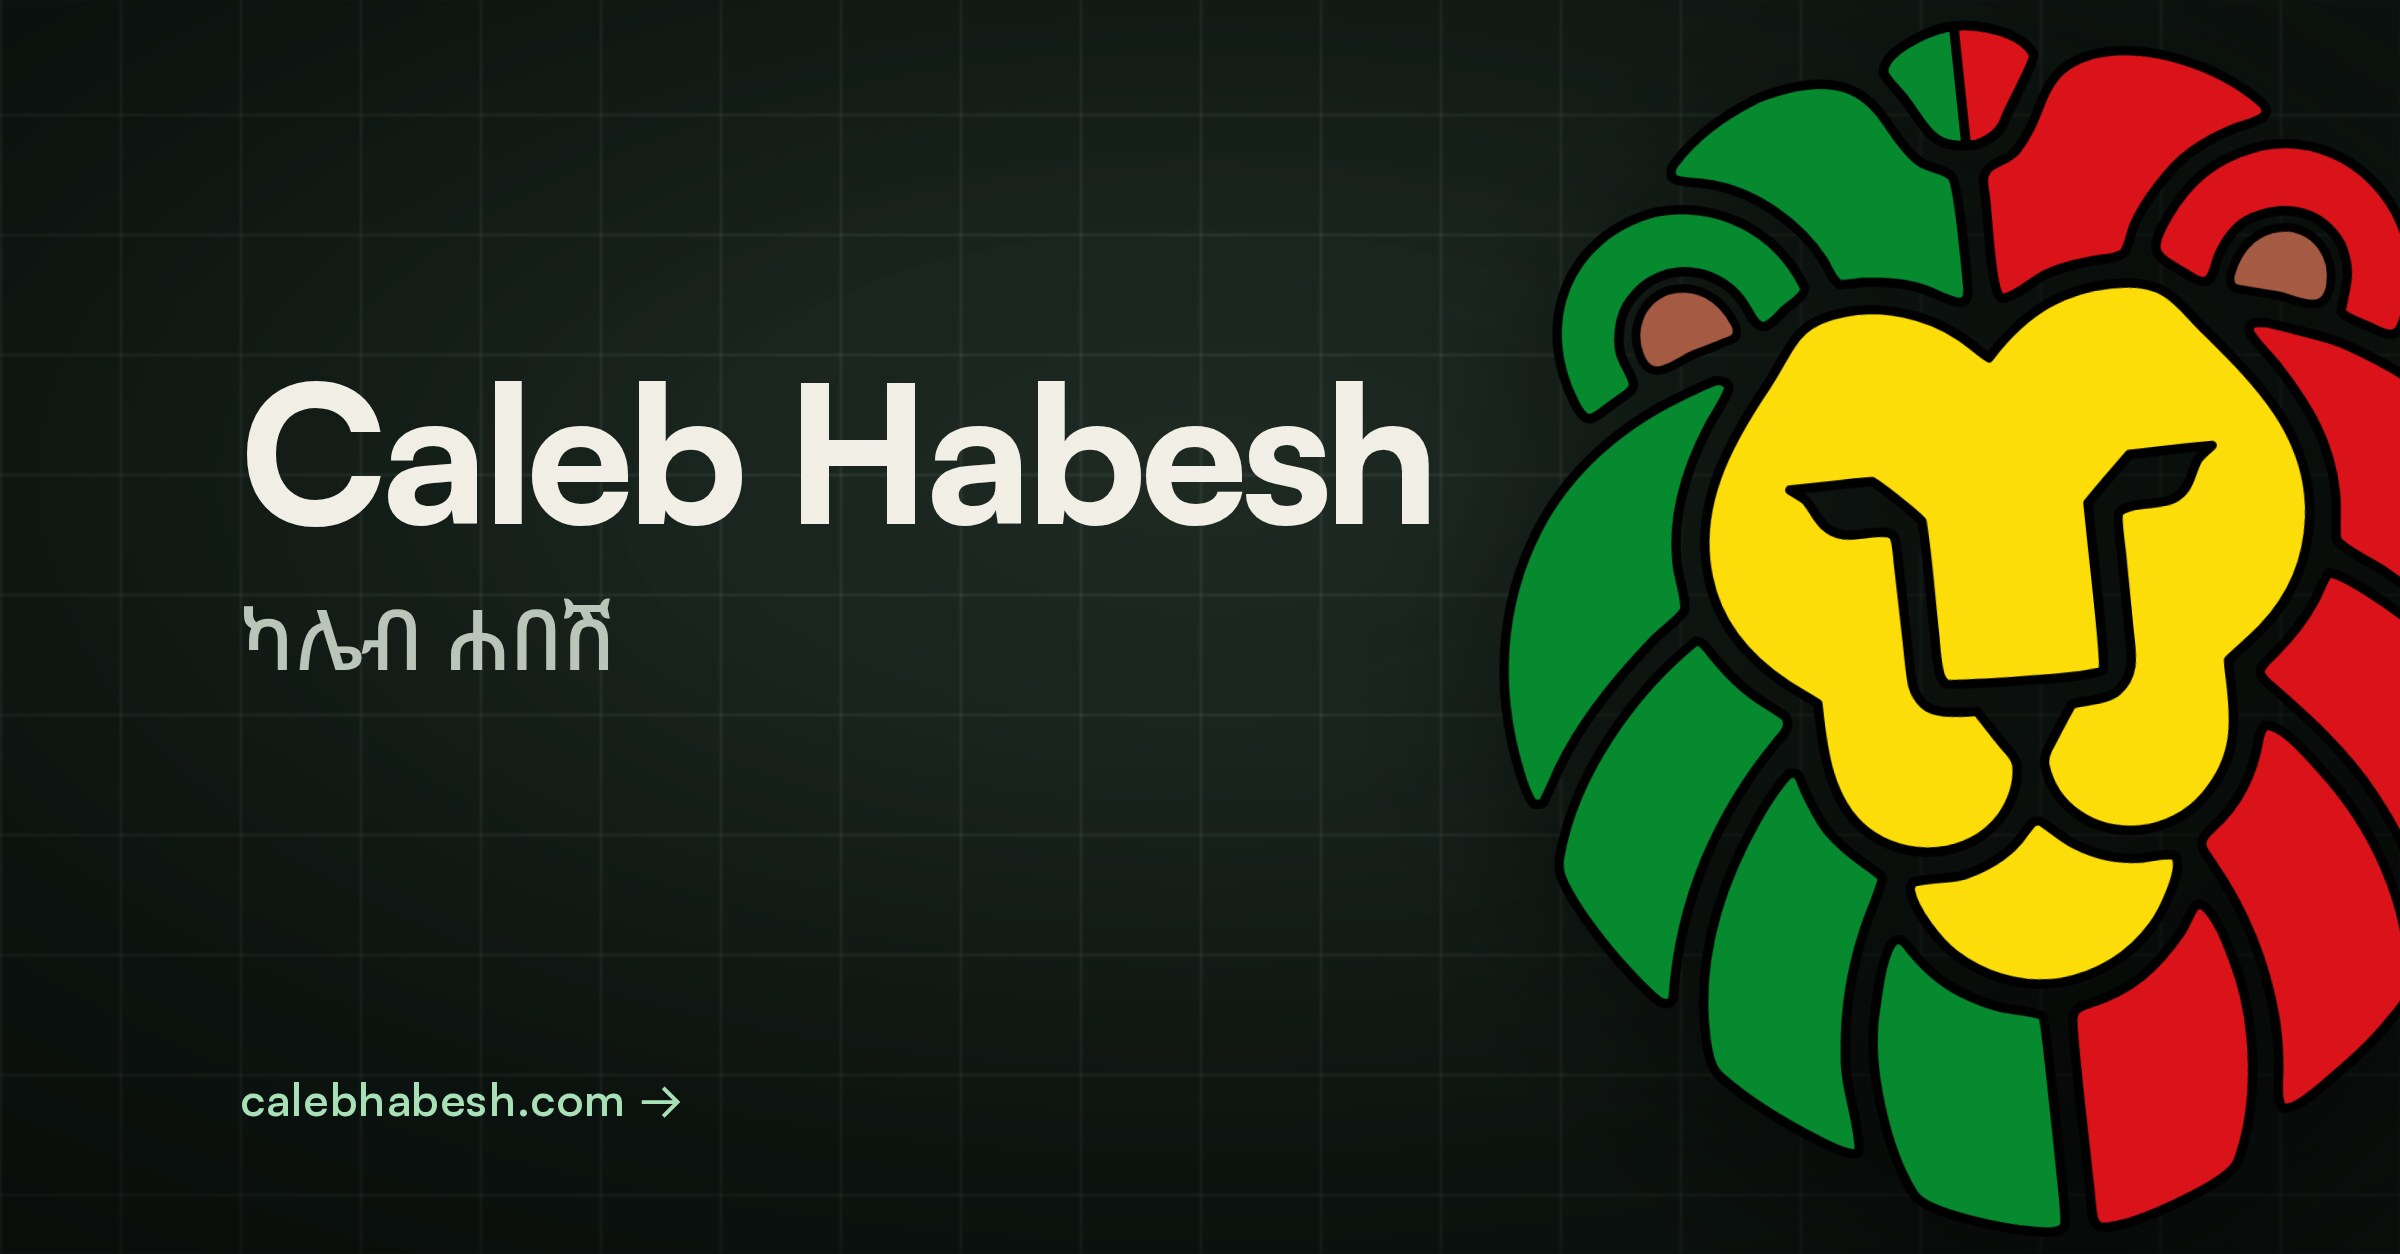
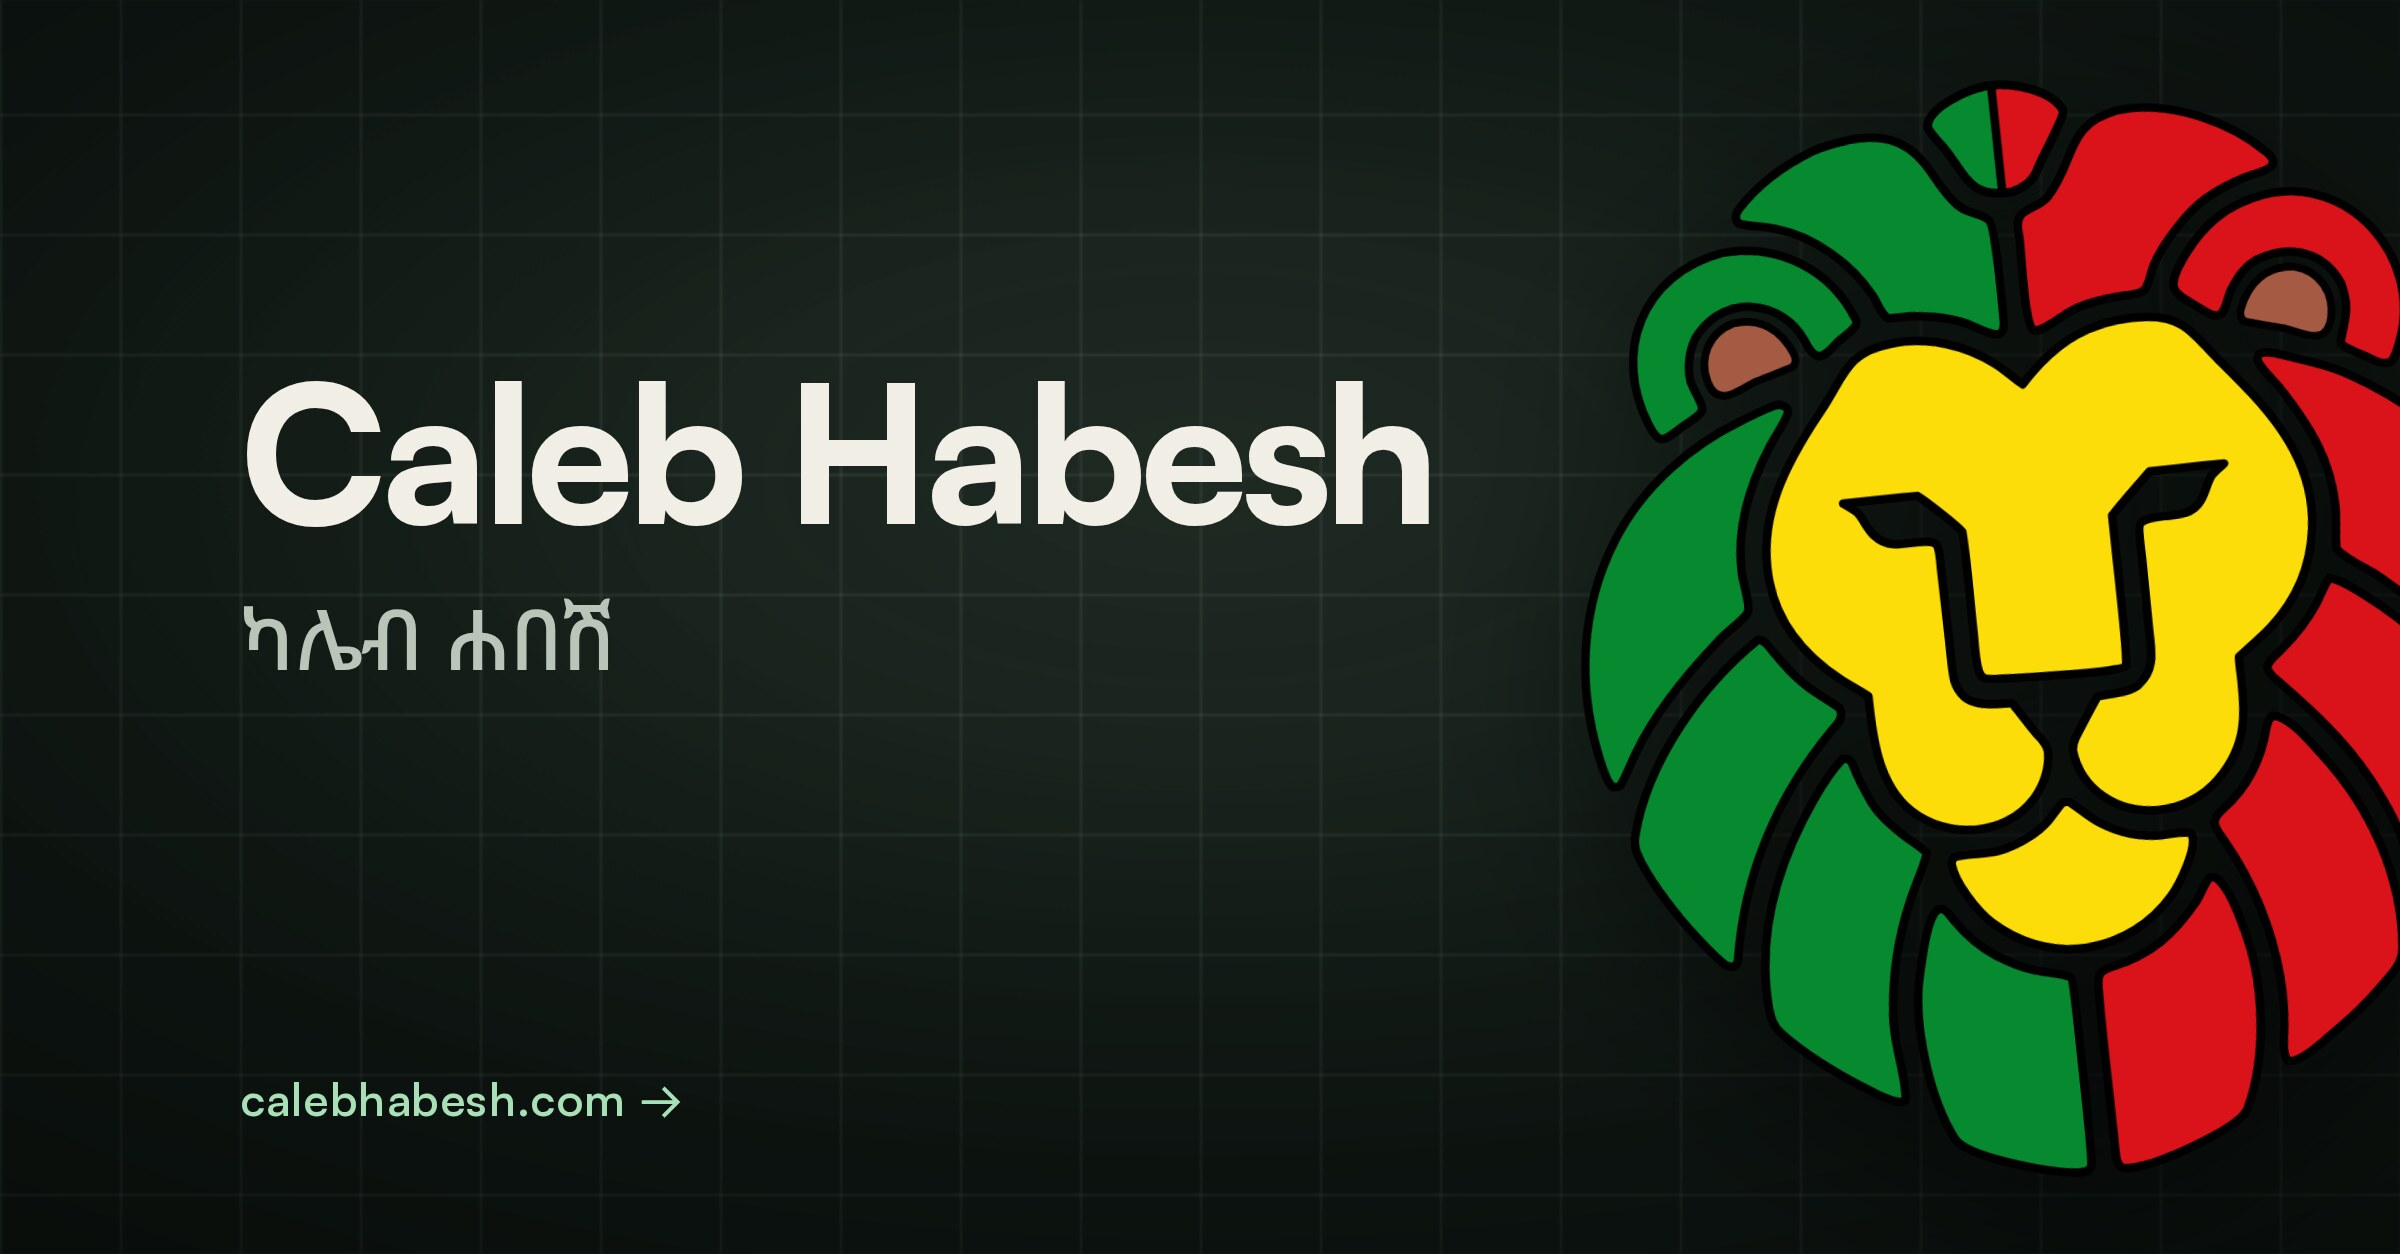
Shrink the lion in the link preview

Changed region(s): [[0.625, 0.0, 1.0, 0.9952]]

diff --git a/index.html b/index.html
@@ -50,7 +50,7 @@
     />
     <meta property="og:type" content="website" />
     <meta property="og:url" content="https://calebhabesh.com/" />
-    <meta property="og:image" content="https://calebhabesh.com/og-image.jpg?v=f3733b3df641" />
+    <meta property="og:image" content="https://calebhabesh.com/og-image.jpg?v=ffda1e60dd50" />
     <meta property="og:image:width" content="2400" />
     <meta property="og:image:height" content="1254" />
     <meta property="og:image:alt" content="Caleb Habesh in English and Ge'ez beside the lion emblem on the site's dark grid." />
